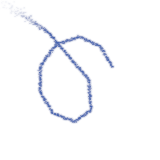
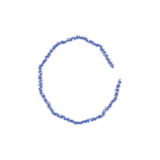
fix(core): align stroke math with libmypaint reference
Several engine constants and conventions diverged from libmypaint enough
to make whole brush categories render wrong; this lands a coordinated
fix and replaces the four affected goldens with libmypaint's output.

- Radius / stroke_duration / smudge_radius now use `exp` (natural), not
  `exp2`. libmypaint stores `radius_logarithmic` as `ln(radius)`, so
  every dab was coming out ~2.6× too small for the same brush JSON.
- `smudge_radius` is a multiplier (`radius * exp(SMUDGE_RADIUS_LOG)`)
  rather than an absolute pixel size.
- `tilt_declination` defaults to 90° (pen straight up) and follows
  libmypaint's `90 - hypot(xtilt, ytilt) * 60` formula; `tilt_ascension`
  uses `atan2(-xtilt, ytilt)`. The previous 0° default made brushes with
  `radius_logarithmic` curves over tilt (e.g. marker_fat) treat every
  pressure-only stroke as if the pen were flat against the tablet.
- `anti_aliasing` lowers hardness and grows radius while keeping the
  optical radius constant, matching `prepare_and_draw_dab`. The
  previous rr-band stretch enlarged the dab visibly.
- Dab spacing divides by `radius`, not `radius * 2`. The diameter bias
  halved the dab count and produced gaps once radii became correct.
- The libmypaint C wrapper now seeds STATE.X cleanly with a dt > 5s
  warm-up call (libmypaint applies slow_tracking *before* the
  reset_requested check, so the goldens previously included a phantom
  ramp from (0, 0) to the first event for any heavy-smoothing brush).
[…]

Changed region(s): [[0.0938, 0.0625, 0.7812, 0.7812]]

diff --git a/crates/hokusai-core/src/stroke.rs b/crates/hokusai-core/src/stroke.rs
@@ -94,21 +94,27 @@ impl Brush {
         state.norm_speed2_slow += (raw_speed - state.norm_speed2_slow) * (1.0 - alpha2);
 
         // --- Stroke progress: 0..1 across `stroke_duration_logarithmic` ----
-        // dur_log is log2(seconds), so `2^dur_log` is the configured length.
+        // libmypaint stores duration as `ln(seconds)`, so `exp(dur_log)` is
+        // the configured length in seconds.
         let dur_log = self.get(BrushSetting::StrokeDurationLogarithmic).base_value;
-        let dur = dur_log.exp2().max(0.01);
+        let dur = dur_log.exp().max(0.01);
         let stroke_progress = (state.stroke_total_painting_time as f32 / dur).clamp(0.0, 1.0);
 
         // --- Tilt-derived inputs --------------------------------------------
-        // xtilt, ytilt come in normalized to [-1, 1] from Wacom-style devices.
-        // declination = asin(|tilt|) → 0° straight up, 90° lying flat.
-        // ascension   = atan2(ytilt, xtilt) → rotation around the up axis.
-        let tilt_mag = (xtilt * xtilt + ytilt * ytilt).sqrt().min(1.0);
-        let tilt_declination = tilt_mag.asin().to_degrees();
-        let tilt_ascension = if xtilt == 0.0 && ytilt == 0.0 {
-            0.0
+        // libmypaint convention (mypaint-brush.c):
+        //   declination = 90° when the pen is straight up, decreasing as the
+        //     pen tilts toward the tablet. Formula: `90 - hypot(xtilt,ytilt) * 60`.
+        //   ascension   = `atan2(-xtilt, ytilt)` in degrees.
+        // When no tilt is reported, libmypaint leaves declination at 90 and
+        // ascension at 0 — anything else makes pressure-only strokes evaluate
+        // brushes (e.g. marker_fat) as if the pen were lying flat against the
+        // tablet, which feeds wildly wrong radius/aspect values into the
+        // curves.
+        let (tilt_mag, tilt_declination, tilt_ascension) = if xtilt == 0.0 && ytilt == 0.0 {
+            (0.0, 90.0, 0.0)
         } else {
-            ytilt.atan2(xtilt).to_degrees()
+            let m = (xtilt * xtilt + ytilt * ytilt).sqrt().min(1.0);
+            (m, 90.0 - m * 60.0, (-xtilt).atan2(ytilt).to_degrees())
         };
 
         // --- Build input vector ---------------------------------------------
@@ -127,7 +133,10 @@ impl Brush {
         let sv = evaluate(self, &inputs);
 
         // --- Resolve actual radius ------------------------------------------
-        let radius = sv.get(BrushSetting::Radius).exp2().max(0.1);
+        // libmypaint's `radius_logarithmic` is stored as `ln(radius)`, so the
+        // brush's effective radius in pixels is `exp(value)`. Using `exp2`
+        // here previously made every dab ~2.6× smaller than libmypaint's.
+        let radius = sv.get(BrushSetting::Radius).exp().max(0.1);
         state.actual_radius = radius;
 
         // --- Slow tracking: advance smoothed position toward the event ------
@@ -182,8 +191,14 @@ impl Brush {
         } else {
             1.0
         };
+        // libmypaint's `count_dabs_to` is `dist_ellipse / radius * DPAR` plus
+        // the basic-radius and per-second terms — i.e. `dabs_per_actual_radius`
+        // means dabs per *radius* of travel, not per diameter. Dividing by
+        // `radius * 2.0` here (as a previous revision did) halved the dab
+        // count, producing visible gaps in libmypaint-thin brushes once the
+        // tilt_declination fix made radii small enough to expose them.
         let dist_dabs = if radius > 0.0 {
-            dist * (dpar + dpbr) * elongation / (radius * 2.0)
+            dist * (dpar + dpbr) * elongation / radius
         } else {
             0.0
         };
@@ -196,7 +211,9 @@ impl Brush {
             let dt_per_dab = dt / n.max(1) as f32;
             let smudge_amt = sv.get(BrushSetting::Smudge).clamp(0.0, 1.0);
             let smudge_length = sv.get(BrushSetting::SmudgeLength).clamp(0.0, 1.0);
-            let smudge_radius = sv.get(BrushSetting::SmudgeRadiusLog).exp2().max(1.0);
+            // libmypaint: `smudge_radius = radius * expf(SMUDGE_RADIUS_LOG)`.
+            // The setting is a multiplier in `ln` space, not an absolute size.
+            let smudge_radius = (radius * sv.get(BrushSetting::SmudgeRadiusLog).exp()).max(1.0);
             let off_random = sv.get(BrushSetting::OffsetByRandom).max(0.0);
             let off_speed = sv.get(BrushSetting::OffsetBySpeed).max(0.0);
             // Unit vector along motion, used by offset_by_speed.
@@ -396,14 +413,34 @@ fn build_dab(
     let opaque = (opaque_raw * opaque_mult).clamp(0.0, 1.0);
     // TODO: opaque_linearize as a gamma-style adjustment on the result.
 
-    let hardness = sv.get(BrushSetting::Hardness).clamp(0.0, 1.0);
+    let mut hardness = sv.get(BrushSetting::Hardness).clamp(0.0, 1.0);
+    let mut radius = state.actual_radius;
+
+    // libmypaint's anti_aliasing: if the current edge fadeout (in pixels)
+    // is narrower than the requested minimum, soften the brush by lowering
+    // hardness and growing the geometric radius so the *optical* radius —
+    // the perceptual center of the falloff — stays the same. Encoding AA
+    // this way (rather than as a separate dab field) means the renderer
+    // sees a regular hard/soft dab with no special path. See
+    // libmypaint/mypaint-brush.c `prepare_and_draw_dab`.
+    let aa_min = sv.get(BrushSetting::AntiAliasing).max(0.0);
+    let current_fadeout = radius * (1.0 - hardness);
+    if aa_min > current_fadeout && hardness < 1.0 || (aa_min > 0.0 && hardness >= 1.0) {
+        let optical = radius - (1.0 - hardness) * radius * 0.5;
+        let hardness_new = (optical - aa_min * 0.5) / (optical + aa_min * 0.5);
+        if hardness_new > 0.0 && hardness_new < 1.0 {
+            radius = aa_min / (1.0 - hardness_new);
+            hardness = hardness_new;
+        }
+    }
+
     let eraser = sv.get(BrushSetting::Eraser).clamp(0.0, 1.0);
     let alpha_eraser = 1.0 - eraser;
 
     Dab {
         x: px,
         y: py,
-        radius: state.actual_radius,
+        radius,
         color,
         opaque,
         hardness,
@@ -415,11 +452,8 @@ fn build_dab(
         posterize: sv.get(BrushSetting::Posterize).clamp(0.0, 1.0),
         posterize_num: sv.get(BrushSetting::PosterizeNum).max(1.0),
         paint: sv.get(BrushSetting::Paint).clamp(0.0, 1.0),
-        // anti_aliasing isn't a [0, 1] mask amount in libmypaint — real
-        // brushes like calligraphy.myb set it to 3.53 and rely on the
-        // wider feather to bridge thin elliptical dabs into a connected
-        // stroke. Don't clamp here; brushmodes scales it against radius.
-        anti_aliasing: sv.get(BrushSetting::AntiAliasing).max(0.0),
+        // AA has been baked into `radius` and `hardness` above.
+        anti_aliasing: 0.0,
     }
 }
 

diff --git a/crates/hokusai-compat/src/lib.rs b/crates/hokusai-compat/src/lib.rs
@@ -76,7 +76,31 @@ pub fn render(brush: &Brush, script: &Script) -> Vec<u8> {
     // No finish_stroke here: libmypaint's reference path does not flush
     // slow_tracking on its own, and the parity goldens are produced without
     // such a flush. Applications that want a trailing-pixel drain should
-    // call `Brush::finish_stroke` themselves.
+    // call `Brush::finish_stroke` themselves — see [`render_with_finish`].
+    flatten(&surface, script.width, script.height)
+}
+
+/// Same as [`render`] but drains `slow_tracking` lag at the end with
+/// [`Brush::finish_stroke`]. This is what an interactive app does on
+/// pointer-up, so continuity property tests use this variant — otherwise
+/// every stroke ends with a `slow_tracking * speed`-sized unpainted tail
+/// (which is shared with libmypaint, just normally hidden by app code).
+pub fn render_with_finish(brush: &Brush, script: &Script) -> Vec<u8> {
+    let mut state = BrushState::default();
+    let mut surface = MemSurface::new();
+    for ev in &script.events {
+        brush.stroke_to(
+            &mut state,
+            &mut surface,
+            ev[0],
+            ev[1],
+            ev[2],
+            0.0,
+            0.0,
+            ev[3] as f64,
+        );
+    }
+    brush.finish_stroke(&mut state, &mut surface);
     flatten(&surface, script.width, script.height)
 }
 

diff --git a/tools/libmypaint-render/render.c b/tools/libmypaint-render/render.c
@@ -82,6 +82,20 @@ int main(int argc, char **argv) {
     MyPaintFixedTiledSurface *fts = mypaint_fixed_tiled_surface_new(width, height);
     MyPaintSurface *surface = mypaint_fixed_tiled_surface_interface(fts);
 
+    // Warm-up: libmypaint's first stroke_to applies slow_tracking smoothing
+    // BEFORE detecting the reset_requested flag, so for brushes with heavy
+    // `slow_tracking` the seeded STATE.X bleeds toward the default 0, and
+    // the next event renders dabs along a phantom path from (0,0) to the
+    // real start. Trigger libmypaint's "dtime > max_dtime (5s)" branch with
+    // a large dt to seed STATE.X cleanly to the first event's position.
+    // This mirrors what MyPaint apps do on pointer-down.
+    if (n_events > 0) {
+        struct json_object *first = json_object_array_get_idx(jevents, 0);
+        float sx = (float)json_object_get_double(json_object_array_get_idx(first, 0));
+        float sy = (float)json_object_get_double(json_object_array_get_idx(first, 1));
+        mypaint_brush_stroke_to(brush, surface, sx, sy, 0.0f, 0.0f, 0.0f, 10.0);
+    }
+
     mypaint_surface_begin_atomic(surface);
     for (int i = 0; i < n_events; i++) {
         struct json_object *ev = json_object_array_get_idx(jevents, i);

diff --git a/crates/hokusai-compat/tests/continuity.rs b/crates/hokusai-compat/tests/continuity.rs
@@ -8,7 +8,7 @@
 
 use std::path::PathBuf;
 
-use hokusai_compat::{load_brush, render, Script};
+use hokusai_compat::{load_brush, render_with_finish as render, Script};
 
 fn brush_path(name: &str) -> PathBuf {
     PathBuf::from(env!("CARGO_MANIFEST_DIR"))
